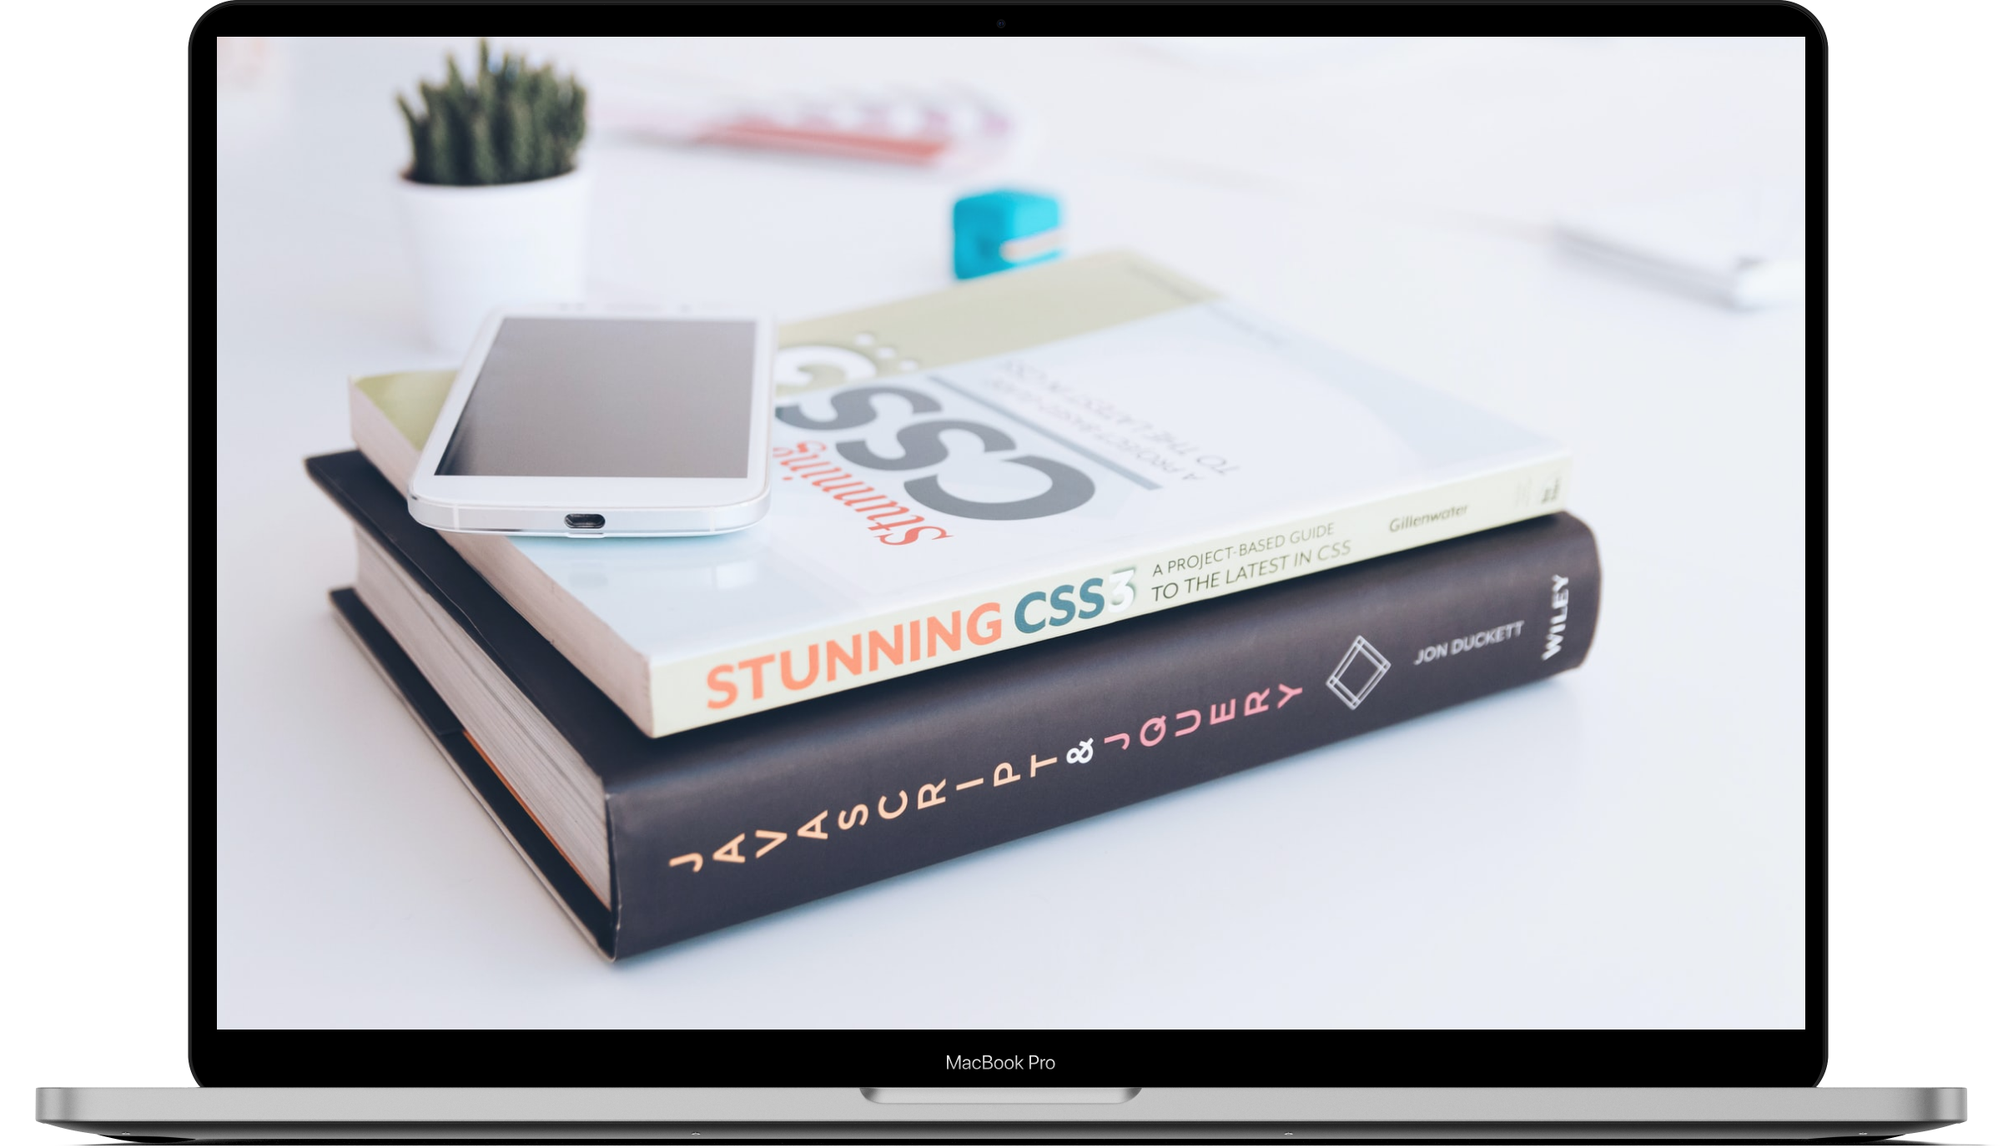
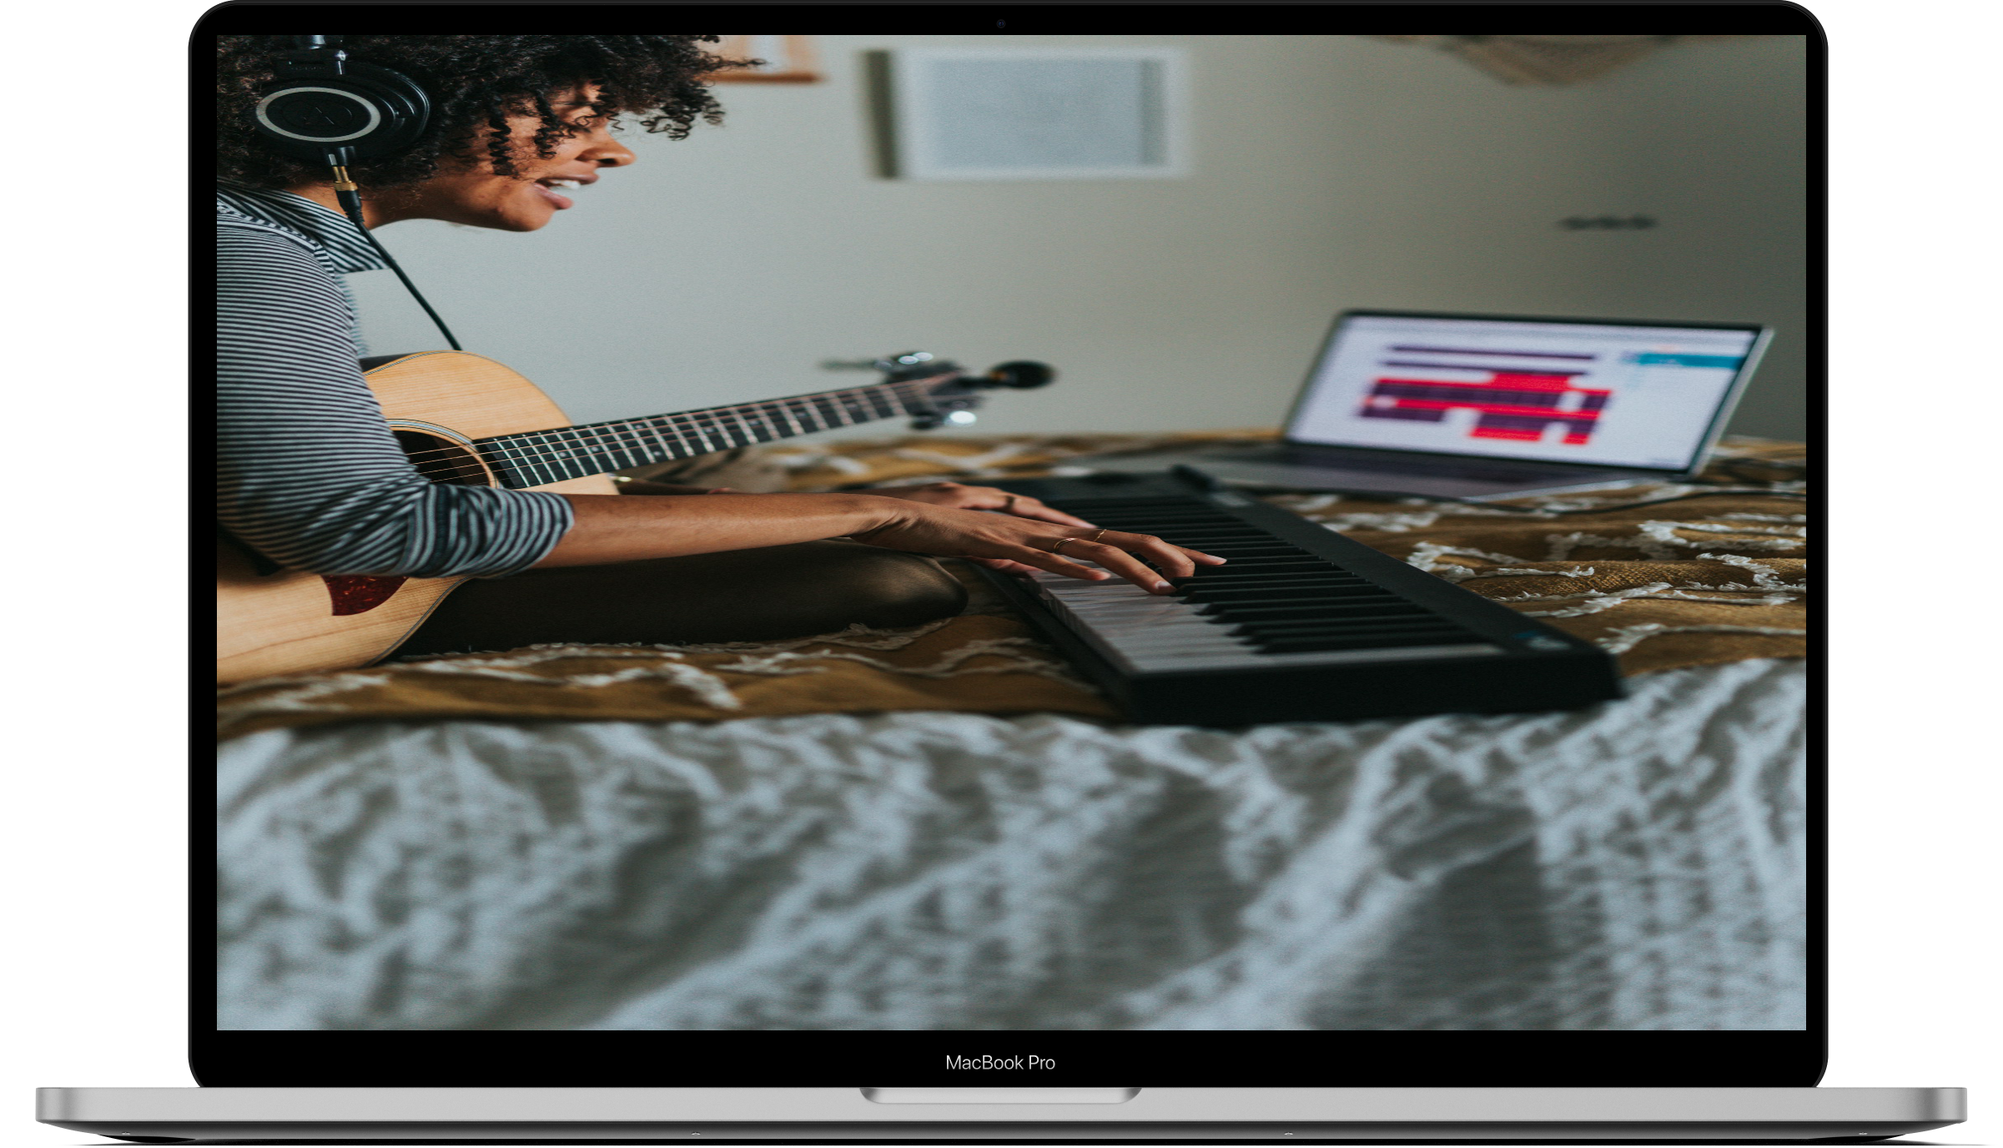
sorry me equivoque
Cambie el formato y la presentacion para mi pagina web de clases de guitarra

diff --git a/index.html b/index.html
@@ -5,31 +5,31 @@
     <meta charset="UTF-8">
     <meta http-equiv="X-UA-Compatible" content="IE=edge">
     <meta name="viewport" content="width=device-width, initial-scale=1.0">
-    <title>MASTER EN CSS</title>
+    <title>GUITARRISTA</title>
     <link rel="shortcut icon" href="./images/favicon.png" type="image/x-icon">
     <link rel="stylesheet" href="./css/normalize.css">
     <link rel="stylesheet" href="./css/estilos.css">
 
     <meta name="theme-color" content="#2091F9">
 
-    <meta name="title" content="Aprende CSS desde cero">
-    <meta name="description"
-        content="Hola, soy una descripción que verás cuando busques algo de mi temática en Google.">
+    <meta name="title" content="Aprende a tocar guitarra DESDE CERO" />
+    <meta name="description" content="Entra a este curso y domina la guitarra DESDE CERO." />
 
+    <!-- Open Graph / Facebook -->
+    <meta property="og:type" content="website" />
+    <meta property="og:url" content="https://marko100000.github.io" />
+    <meta property="og:title" content="Aprende a tocar guitarra DESDE CERO" />
+    <meta property="og:description" content="Entra a este curso y domina la guitarra DESDE CERO." />
+    <meta property="og:image" content="https://marko100000.github.io/images/guitarra2.jpg" />
 
-    <meta property="og:type" content="website">
-    <meta property="og:url" content="https://marko100000.github.io">
-    <meta property="og:title" content="Aprende CSS desde cero">
-    <meta property="og:description"
-        content="Hola, soy una descripción que verás cuando busques algo de mi temática en Google.">
-    <meta property="og:image" content="https://marko100000.github.io/images/css.jpg">
+    <!-- Twitter -->
+    <meta property="twitter:card" content="summary_large_image" />
+    <meta property="twitter:url" content="https://marko100000.github.io" />
+    <meta property="twitter:title" content="Aprende a tocar guitarra DESDE CERO" />
+    <meta property="twitter:description" content="Entra a este curso y domina la guitarra DESDE CERO." />
+    <meta property="twitter:image" content="https://marko100000.github.io/images/guitarra2.jpg" />
 
-    <meta property="twitter:card" content="summary_large_image">
-    <meta property="twitter:url" content="https://www.jordanalex.com/">
-    <meta property="twitter:title" content="Aprende CSS desde cero">
-    <meta property="twitter:description"
-        content="Hola, soy una descripción que verás cuando busques algo de mi temática en Google.">
-    <meta property="twitter:image" content="https://marko100000.github.io/images/css.jpg">
+    <!-- Meta Tags Generated with https://metatags.io -->
 </head>
 
 <body>
@@ -37,7 +37,7 @@
     <header class="hero">
         <nav class="nav container">
             <div class="nav__logo">
-                <h2 class="nav__title">Curso CSS.</h2>
+                <h2 class="nav__title">Clases de guitarra.</h2>
             </div>
 
             <ul class="nav__link nav__link--menu">
@@ -76,24 +76,22 @@
 
             <div class="about__main">
                 <article class="about__icons">
-                    <img src="./images/shapes.svg" class="about__icon">
-                    <h3 class="about__title">CSS Layouts</h3>
-                    <p class="about__paragrah">Lorem ipsum dolor sit amet consectetur, adipisicing elit. Quae tempore
-                        porro eius facilis?</p>
+                    <img src="./images/playlist.svg" class="about__icon">
+                    <h3 class="about__title">Acordes y Escalas</h3>
+                    <p class="about__paragrah">Aprende a dominar los acordes y escalas esenciales para tocar tus canciones favoritas.</p>
                 </article>
 
                 <article class="about__icons">
-                    <img src="./images/paint.svg" class="about__icon">
-                    <h3 class="about__title">Animaciones</h3>
-                    <p class="about__paragrah">Lorem ipsum dolor sit amet consectetur, adipisicing elit. Quae tempore
-                        porro eius facilis?</p>
+                    <img src="./images/headphone.svg" class="about__icon">
+                    <h3 class="about__title">Técnicas de Rasgueo</h3>
+                    <p class="about__paragrah">Descubre diferentes técnicas de rasgueo que darán vida y ritmo a tu música.</p>
                 </article>
 
                 <article class="about__icons">
-                    <img src="./images/code.svg" class="about__icon">
-                    <h3 class="about__title">Sass</h3>
-                    <p class="about__paragrah">Lorem ipsum dolor sit amet consectetur, adipisicing elit. Quae tempore
-                        porro eius facilis?</p>
+                    <img src="./images/music.svg" class="about__icon">
+                    <h3 class="about__title">Teoría Musical</h3>
+                    <p class="about__paragrah">Entiende los fundamentos de la teoría musical para mejorar tu habilidad y creatividad en la guitarra.
+                    </p>
                 </article>
             </div>
         </section>
@@ -101,10 +99,8 @@
         <section class="knowledge">
             <div class="knowledge__container container">
                 <div class="knowledege__texts">
-                    <h2 class="subtitle">Curso completo de CSS3. ¡Domina CSS de una vez por todas!</h2>
-                    <p class="knowledge__paragraph">Lorem ipsum dolor sit, amet consectetur adipisicing elit. Excepturi,
-                        aliquam nemo in facere suscipit at delectus unde labore ad officia iste accusantium eaque
-                        aperiam laborum est voluptate totam? Modi, obcaecati?</p>
+                    <h2 class="subtitle">Curso completo de Guitarra. ¡Domina la guitarra de una vez por todas!</h2>
+                    <p class="knowledge__paragraph">Aprende a tocar la guitarra desde lo básico hasta técnicas avanzadas. Este curso te enseñará todo lo que necesitas saber para tocar tus canciones favoritas y crear tus propias melodías.</p>
                     <a href="#" class="cta">Entra al curso</a>
                 </div>
 
@@ -115,53 +111,49 @@
         </section>
 
         <section class="price container">
-            <h2 class="subtitle">Obten el plan perfecto para aprender</h2>
-
+            <h2 class="subtitle">Obtén el plan perfecto para aprender guitarra</h2>
+        
             <div class="price__table">
                 <div class="price__element">
-                    <p class="price__name">Flexbox</p>
-                    <h3 class="price__price">Free</h3>
-
+                    <p class="price__name">Principiante</p>
+                    <h3 class="price__price">Gratis</h3>
+        
                     <div class="price__items">
-                        <p class="price__features">Flexbox</p>
-                        <p class="price__features">Layouts</p>
-                        <p class="price__features">Responsive</p>
+                        <p class="price__features">Acordes básicos</p>
+                        <p class="price__features">Ejercicios de práctica</p>
+                        <p class="price__features">Canciones sencillas</p>
                     </div>
-
+        
                     <a href="#" class="price__cta">Empieza ahora</a>
                 </div>
-
-
+        
                 <div class="price__element price__element--best">
-                    <p class="price__name">Grid</p>
-                    <h3 class="price__price">$30/mes</h3>
-
+                    <p class="price__name">Intermedio</p>
+                    <h3 class="price__price">S/ 90/mes</h3>
+        
                     <div class="price__items">
-                        <p class="price__features">Grid</p>
-                        <p class="price__features">Implicit Grid</p>
-                        <p class="price__features">Responsive</p>
+                        <p class="price__features">Acordes avanzados</p>
+                        <p class="price__features">Técnicas de rasgueo</p>
+                        <p class="price__features">Teoría musical</p>
                     </div>
-
+        
                     <a href="#" class="price__cta">Empieza ahora</a>
                 </div>
-
-
+        
                 <div class="price__element">
-                    <p class="price__name">Animaciones</p>
-                    <h3 class="price__price">$40/mes</h3>
-
+                    <p class="price__name">Avanzado</p>
+                    <h3 class="price__price">S/ 120/mes</h3>
+        
                     <div class="price__items">
-                        <p class="price__features">Animation</p>
-                        <p class="price__features">Transition</p>
-                        <p class="price__features">Render Website</p>
+                        <p class="price__features">Improvisación</p>
+                        <p class="price__features">Composición</p>
+                        <p class="price__features">Actuación en vivo</p>
                     </div>
-
+        
                     <a href="#" class="price__cta">Empieza ahora</a>
                 </div>
-
-
             </div>
-        </section>
+        </section>              
 
         <section class="testimony">
             <div class="testimony__container container">
@@ -170,10 +162,8 @@
                 <section class="testimony__body testimony__body--show" data-id="1">
                     <div class="testimony__texts">
                         <h2 class="subtitle">Mi nombre es Jordan Alexander, <span class="testimony__course">estudiante
-                                de CSS.</span></h2>
-                        <p class="testimony__review">Lorem, ipsum dolor sit amet consectetur adipisicing elit. Ut est
-                            esse, asperiores eaque totam nulla repudiandae quasi, deserunt culpa exercitationem
-                            blanditiis laborum veniam laboriosam saepe reiciendis dolorem. Cum, ratione voluptatum!</p>
+                                de guitarra.</span></h2>
+                        <p class="testimony__review">El curso de guitarra ha sido increíble. He aprendido acordes básicos y ya puedo tocar mis primeras canciones. ¡Altamente recomendado!</p>
                     </div>
 
                     <figure class="testimony__picture">
@@ -184,10 +174,8 @@
                 <section class="testimony__body" data-id="2">
                     <div class="testimony__texts">
                         <h2 class="subtitle">Mi nombre es Alejandra Perez, <span class="testimony__course">estudiante de
-                                CSS.</span></h2>
-                        <p class="testimony__review">Lorem, ipsum dolor sit amet consectetur adipisicing elit. Ut est
-                            esse, asperiores eaque laborum veniam laboriosam saepe reiciendis dolorem. Cum, ratione
-                            voluptatum!</p>
+                                guitarra.</span></h2>
+                        <p class="testimony__review">Este curso me ha ayudado a mejorar mis técnicas de rasgueo y ahora entiendo mejor la teoría musical. ¡Excelente curso!</p>
                     </div>
 
                     <figure class="testimony__picture">
@@ -198,9 +186,8 @@
                 <section class="testimony__body" data-id="3">
                     <div class="testimony__texts">
                         <h2 class="subtitle">Mi nombre es Karen Arteaga, <span class="testimony__course">estudiante de
-                                CSS.</span></h2>
-                        <p class="testimony__review">Lorem, ipsum dolor sit amet consectetur adipisicing elit. Ut est
-                            esse, niam laboriosam saepe reiciendis dolorem. Cum, ratione voluptatum!</p>
+                                guitarra.</span></h2>
+                        <p class="testimony__review">Gracias a este curso, he avanzado mucho en improvisación y composición. Los profesores son excelentes y muy dedicados.</p>
                     </div>
 
                     <figure class="testimony__picture">
@@ -211,9 +198,8 @@
                 <section class="testimony__body" data-id="4">
                     <div class="testimony__texts">
                         <h2 class="subtitle">Mi nombre es Kevin Ramirez, <span class="testimony__course">estudiante de
-                                CSS.</span></h2>
-                        <p class="testimony__review">Lorem, ipsum dolor sit amet consectetur adipisicing elit. Ut est
-                            esse, niam laboriosam saepe reiciendis dolorem. Cum, ratione voluptatum!</p>
+                                guitarra.</span></h2>
+                        <p class="testimony__review">El curso de guitarra me ha dado la confianza para actuar en vivo. Las lecciones son claras y bien estructuradas. ¡Muy recomendable!</p>
                     </div>
 
                     <figure class="testimony__picture">
@@ -228,24 +214,18 @@
 
         <section class="questions container">
             <h2 class="subtitle">Preguntas frecuentes</h2>
-            <p class="questions__paragraph">Lorem ipsum, dolor sit amet consectetur adipisicing elit. Ea, porro
-                doloribus neque perspiciatis sapiente fuga.</p>
+            <p class="questions__paragraph">Aquí encontrarás las respuestas a las preguntas más comunes sobre nuestro curso de guitarra.</p>
 
             <section class="questions__container">
                 <article class="questions__padding">
                     <div class="questions__answer">
-                        <h3 class="questions__title">¿Qué es CSS?
+                        <h3 class="questions__title">¿Qué es un acorde?
                             <span class="questions__arrow">
                                 <img src="./images/arrow.svg" class="questions__img">
                             </span>
                         </h3>
 
-                        <p class="questions__show">Lorem ipsum, dolor sit amet consectetur adipisicing elit. Quos
-                            facere, quidem eum id excepturi assumenda explicabo nam accusamus veritatis voluptates
-                            eveniet adipisci, dicta nihil nemo modi possimus officiis quam atque? Lorem ipsum, dolor sit
-                            amet consectetur adipisicing elit. Quos facere, quidem eum id excepturi assumenda explicabo
-                            nam accusamus veritatis voluptates eveniet adipisci, dicta nihil nemo modi possimus officiis
-                            quam atque?</p>
+                        <p class="questions__show">Un acorde es un conjunto de notas que se tocan simultáneamente y forman una armonía. En el curso aprenderás a tocar los acordes más comunes.</p>
                     </div>
                 </article>
 
@@ -257,39 +237,27 @@
                             </span>
                         </h3>
 
-                        <p class="questions__show">Lorem ipsum, dolor sit amet consectetur adipisicing elit. Quos
-                            facere, quidem eum id excepturi assumenda explicabo nam accusamus veritatis voluptates
-                            eveniet adipisci, dicta nihil nemo modi possimus officiis quam atque? Lorem ipsum, dolor sit
-                            amet consectetur adipisicing elit. Quos facere, quidem eum id excepturi assumenda explicabo
-                            nam accusamus veritatis voluptates eveniet adipisci, dicta nihil nemo modi possimus officiis
-                            quam atque?</p>
+                        <p class="questions__show">En este curso aprenderás desde los acordes básicos hasta técnicas avanzadas de guitarra, teoría musical, improvisación y cómo componer tus propias canciones.</p>
                     </div>
                 </article>
 
                 <article class="questions__padding">
                     <div class="questions__answer">
-                        <h3 class="questions__title">¿Qué es CSS GRID?
+                        <h3 class="questions__title">¿Necesito tener experiencia previa?
                             <span class="questions__arrow">
                                 <img src="./images/arrow.svg" class="questions__img">
                             </span>
                         </h3>
 
-                        <p class="questions__show">Lorem ipsum, dolor sit amet consectetur adipisicing elit. Quos
-                            facere, quidem eum id excepturi assumenda explicabo nam accusamus veritatis voluptates
-                            eveniet adipisci, dicta nihil nemo modi possimus officiis quam atque? Lorem ipsum, dolor sit
-                            amet consectetur adipisicing elit. Quos facere, quidem eum id excepturi assumenda explicabo
-                            nam accusamus veritatis voluptates eveniet adipisci, dicta nihil nemo modi possimus officiis
-                            quam atque?</p>
+                        <p class="questions__show">No necesitas experiencia previa. Nuestro curso está diseñado para principiantes y también incluye contenido avanzado para quienes ya tienen conocimientos básicos.</p>
                     </div>
                 </article>
             </section>
 
             <section class="questions__offer">
-                <h2 class="subtitle">¿Estas listo para aprender CSS?</h2>
-                <p class="questions__copy">Lorem, ipsum dolor sit amet consectetur adipisicing elit. Amet ratione
-                    architecto magnam, officiis ex porro vero est voluptates quaerat quibusdam illo veniam reprehenderit
-                    eius atque tempora iure ab non autem.</p>
-                <a href="#" class="cta">Aprende ahora</a>
+                <h2 class="subtitle">¿Estás listo para aprender a tocar la guitarra?</h2>
+                <p class="questions__copy">Nuestro curso de guitarra te llevará desde los fundamentos hasta técnicas avanzadas. ¡Empieza tu viaje musical hoy mismo!</p>
+                <a href="#" class="cta">Empieza ahora</a>
             </section>
         </section>
     </main>
@@ -297,7 +265,7 @@
     <footer class="footer">
         <section class="footer__container container">
             <nav class="nav nav--footer">
-                <h2 class="footer__title">Curso CSS.</h2>
+                <h2 class="footer__title">Curso de guitarra.</h2>
 
                 <ul class="nav__link nav__link--footer">
                     <li class="nav__items">
@@ -315,10 +283,11 @@
                 </ul>
             </nav>
 
-            <form class="footer__form" action="https://formspree.io/f/mknkkrkj" method="POST">
-                <h2 class="footer__newsletter">Suscribete a la newsletter</h2>
+            <form class="footer__form" action="https://formspree.io/f/mrbzqolv"
+            method="POST">
+                <h2 class="footer__newsletter">Suscribete a la publicación</h2>
                 <div class="footer__inputs">
-                    <input type="email" placeholder="Email:" class="footer__input" name="_replyto">
+                    <input type="email" placeholder="Email:" class="footer__input" name="email">
                     <input type="submit" value="Registrate" class="footer__submit">
                 </div>
             </form>
@@ -331,7 +300,7 @@
                 <a href="#" class="footer__icons"><img src="./images/youtube.svg" class="footer__img"></a>
             </div>
 
-            <h3 class="footer__copyright">Derechos reservados &copy; Jordan Alexander</h3>
+            <h3 class="footer__copyright">Derechos reservados &copy; Marko Naveda Samamé</h3>
         </section>
     </footer>
 

diff --git a/css/estilos.css b/css/estilos.css
@@ -35,7 +35,7 @@ body {
     left: 0;
     width: 100%;
     height: 100%;
-    background-image: linear-gradient(180deg, #0000008c 0%, #0000008c 100%), url('../images/computer.jpg');
+    background-image: linear-gradient(180deg, #0000008c 0%, #0000008c 100%), url('../images/guitarra.jpg');
     background-size: cover;
     clip-path: polygon(0 0, 100% 0, 100% 80%, 50% 95%, 0 80%);
     z-index: -1;
